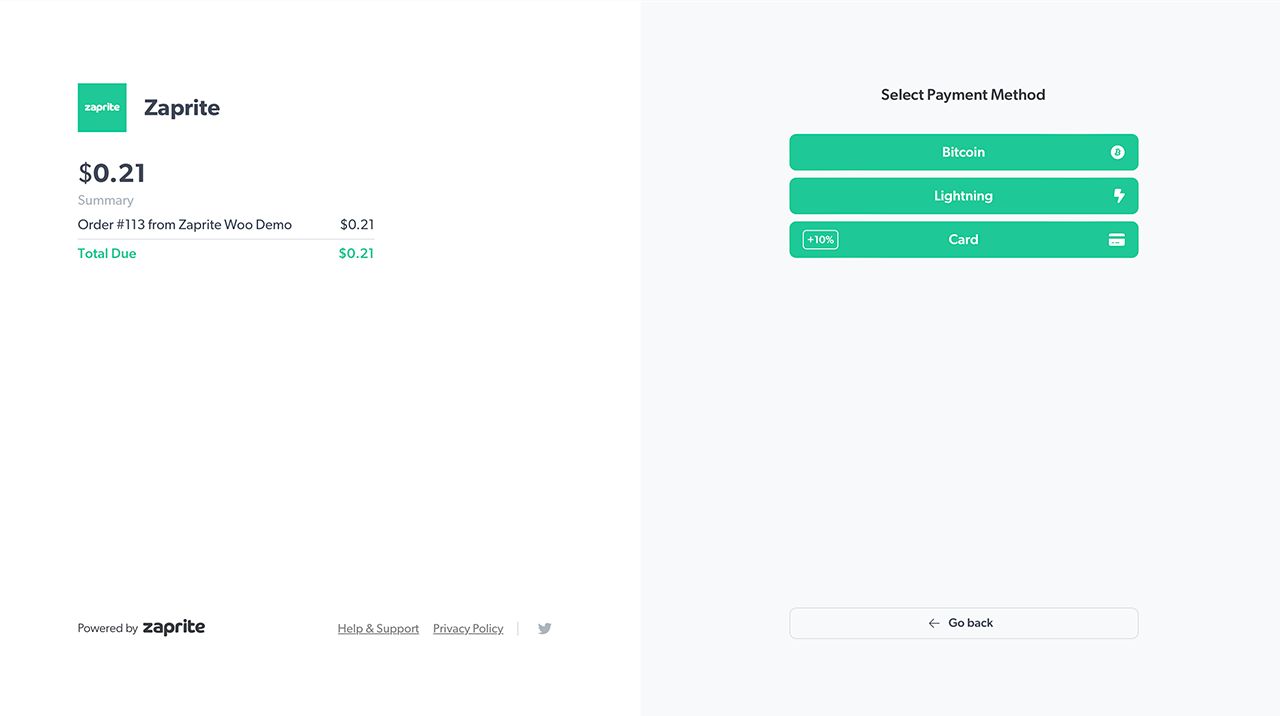
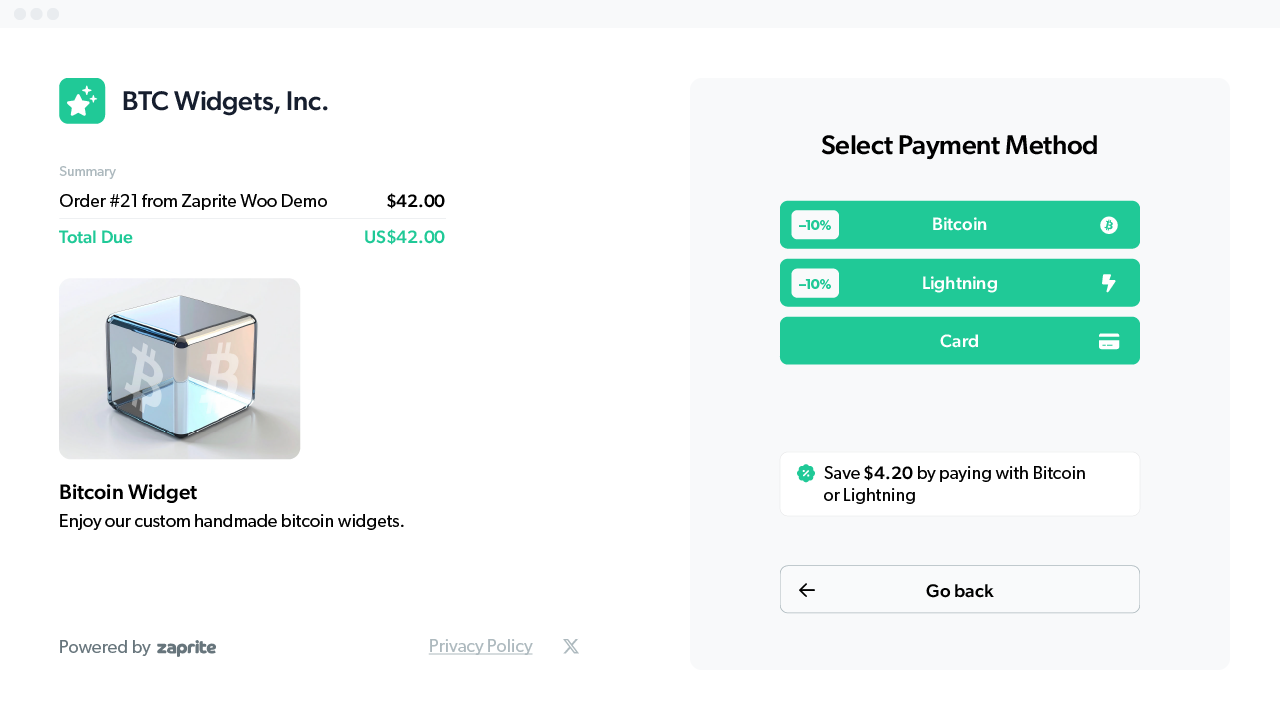
bump versions add pricing link (#37)

diff --git a/zaprite-payment-gateway/zaprite-payment-gateway.php b/zaprite-payment-gateway/zaprite-payment-gateway.php
@@ -4,7 +4,7 @@
  * Plugin Name: Zaprite Payment Gateway
  * Plugin URI: https://github.com/ZapriteApp/zaprite-for-woocommerce
  * Description: Accept bitcoin (on-chain and lightning) and fiat payments in one unified Zaprite Checkout.
- * Version: 1.0.5
+ * Version: 1.0.6
  * Author: zaprite
  * Author URI: https://zaprite.com
  * Text Domain: zaprite-payment-gateway
@@ -23,7 +23,7 @@ define(
 );
 
 
-define( 'ZAPRITE_WOOCOMMERCE_VERSION', '1.0.5' );
+define( 'ZAPRITE_WOOCOMMERCE_VERSION', '1.0.6' );
 
 define( 'WC_PAYMENT_GATEWAY_ZAPRITE_FILE', __FILE__ );
 define( 'WC_PAYMENT_GATEWAY_ZAPRITE_URL', plugins_url( '', WC_PAYMENT_GATEWAY_ZAPRITE_FILE ) );
